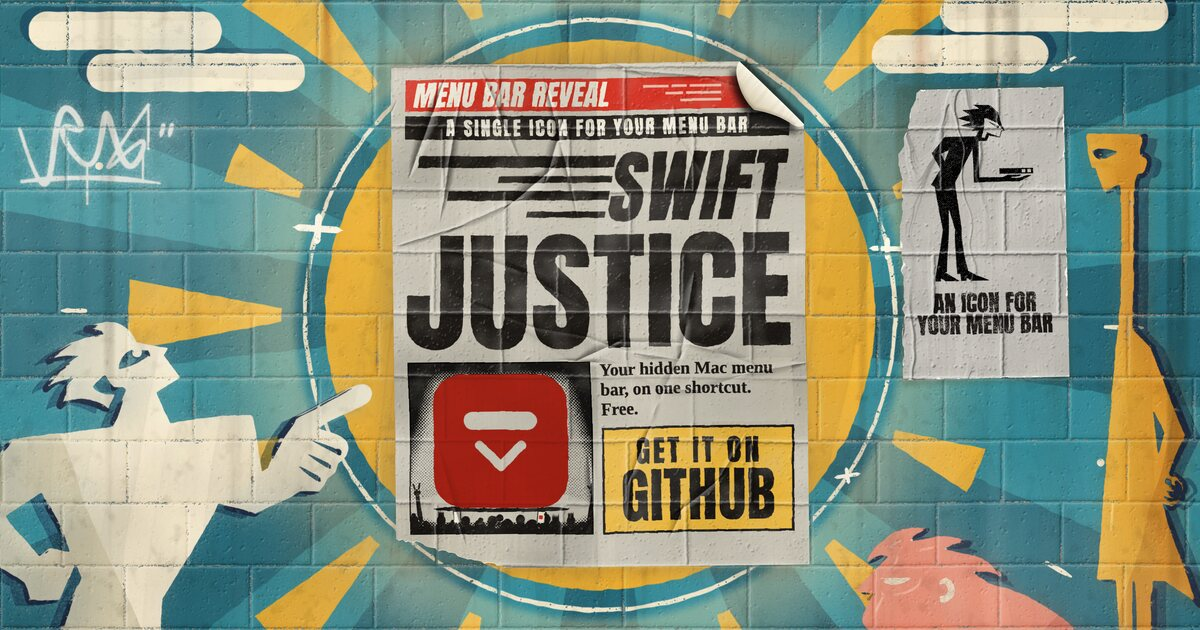
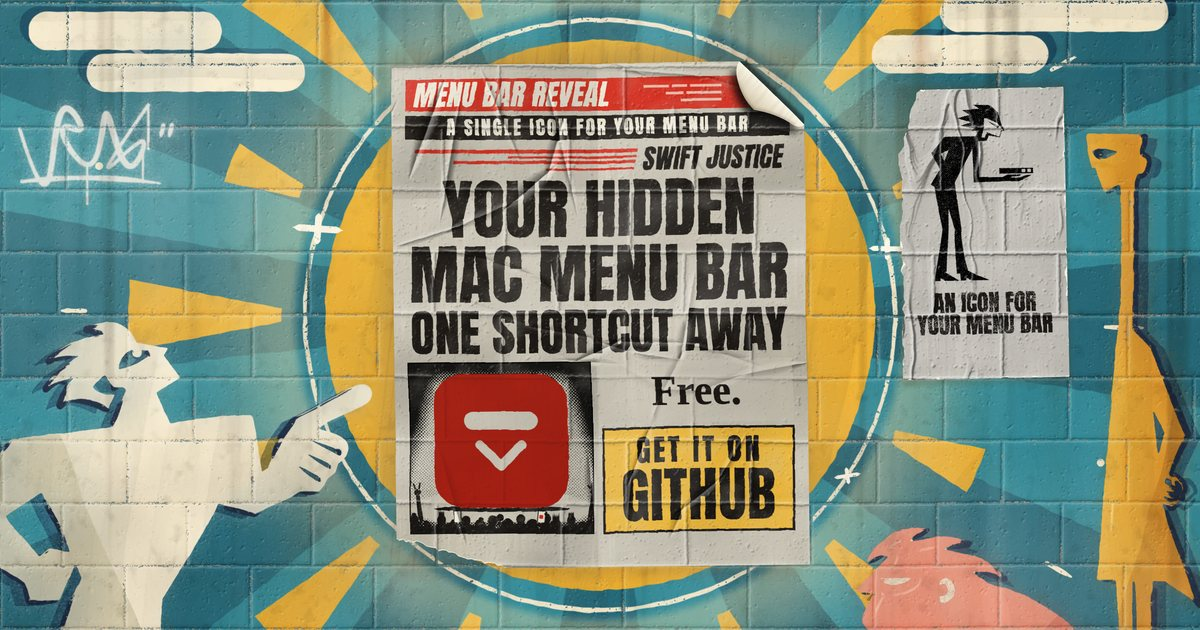
og.jpg rendered again from the first screen with the new headline: 1600x840 at 2x, scaled to 1200x630 (#2)
The share image shows the front page as it is now: SWIFT JUSTICE a small kicker over
"Your hidden Mac menu bar one shortcut away", and Free. beside GET IT ON GITHUB.
A progressive JPEG at quality 84, the same encoding as before (177480 -> 179206 bytes).
The share image alt text in facts.json, og:image:alt and twitter:image:alt says so,
and the README names the encoding.

diff --git a/index.html b/index.html
@@ -21,12 +21,12 @@
 <meta property="og:image:type" content="image/jpeg">
 <meta property="og:image:width" content="1200">
 <meta property="og:image:height" content="630">
-<meta property="og:image:alt" content="A tabloid front page, Menu Bar Reveal, pasted on a painted wall in the middle of a yellow sun. The headline: SWIFT JUSTICE. Under it, a big red app icon, a bar over a down arrow, and a yellow box: GET IT ON GITHUB. A painted figure points at the page. Beside it, a small poster of a waiter serving a menu bar on his palm.">
+<meta property="og:image:alt" content="A tabloid front page, Menu Bar Reveal, pasted on a painted wall in the middle of a yellow sun. A small kicker, SWIFT JUSTICE, over the headline: YOUR HIDDEN MAC MENU BAR ONE SHORTCUT AWAY. Under it, a big red app icon, a bar over a down arrow, and beside it the word Free. over a yellow box: GET IT ON GITHUB. A painted figure points at the page. Beside it, a small poster of a waiter serving a menu bar on his palm.">
 <meta name="twitter:card" content="summary_large_image">
 <meta name="twitter:title" content="Your hidden Mac menu bar one shortcut away | Menu Bar Reveal">
 <meta name="twitter:description" content="A free, open source Mac app. Press your keyboard shortcut to show the hidden menu bar. It stays until the same shortcut hides it.">
 <meta name="twitter:image" content="https://menubarreveal.com/og.jpg">
-<meta name="twitter:image:alt" content="A tabloid front page, Menu Bar Reveal, pasted on a painted wall in the middle of a yellow sun. The headline: SWIFT JUSTICE. Under it, a big red app icon, a bar over a down arrow, and a yellow box: GET IT ON GITHUB. A painted figure points at the page. Beside it, a small poster of a waiter serving a menu bar on his palm.">
+<meta name="twitter:image:alt" content="A tabloid front page, Menu Bar Reveal, pasted on a painted wall in the middle of a yellow sun. A small kicker, SWIFT JUSTICE, over the headline: YOUR HIDDEN MAC MENU BAR ONE SHORTCUT AWAY. Under it, a big red app icon, a bar over a down arrow, and beside it the word Free. over a yellow box: GET IT ON GITHUB. A painted figure points at the page. Beside it, a small poster of a waiter serving a menu bar on his palm.">
 <script type="application/ld+json">
 {
   "@context": "https://schema.org",

diff --git a/README.md b/README.md
@@ -50,7 +50,7 @@ The check covers the title, the headline (the page's h1, also in `index.md` and 
 Three things it cannot see:
 
 - If you edit the `<style>` block, run `npm run csp`. The Content Security Policy allows the block by the sha256 of its text, and that command writes the new hash into `_headers`.
-- `og.jpg` is a picture of the first screen. If the first screen changes, render it again (1600x840 at 2x, scaled to 1200x630) and rewrite its alt text in `facts.json`.
+- `og.jpg` is a picture of the first screen. If the first screen changes, render it again (1600x840 at 2x, scaled to 1200x630, a progressive JPEG at quality 84) and rewrite its alt text in `facts.json`.
 - `sitemap.xml` carries a `lastmod` date. Change it when the page changes in a way a search engine should notice.
 
 To look at the site as it will be served, headers included:
